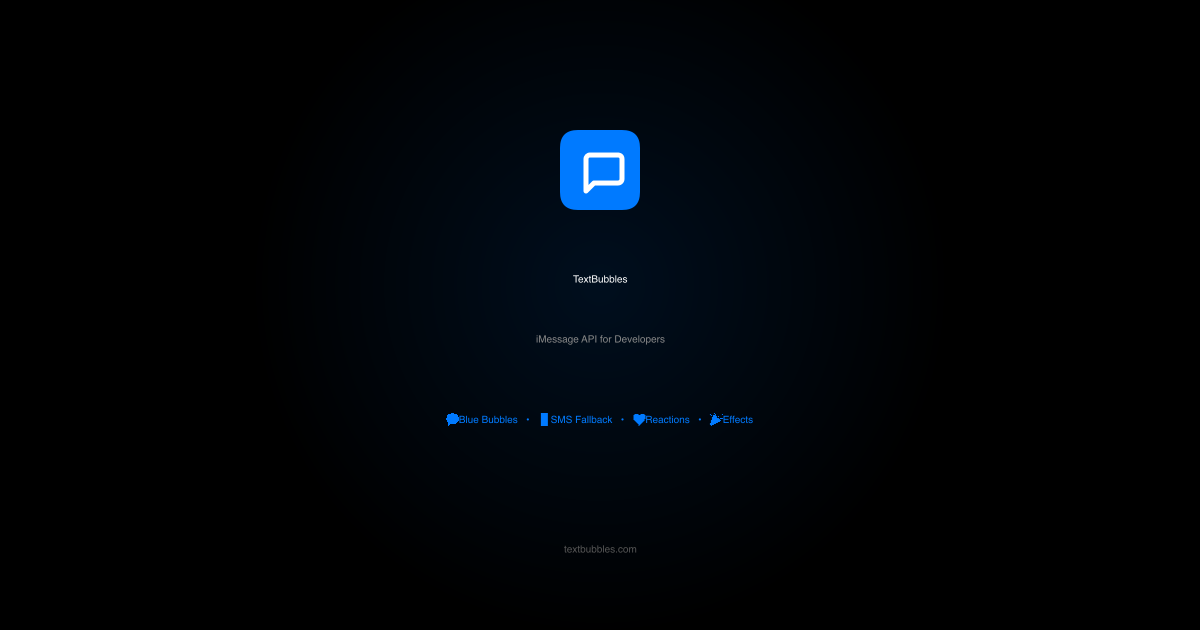
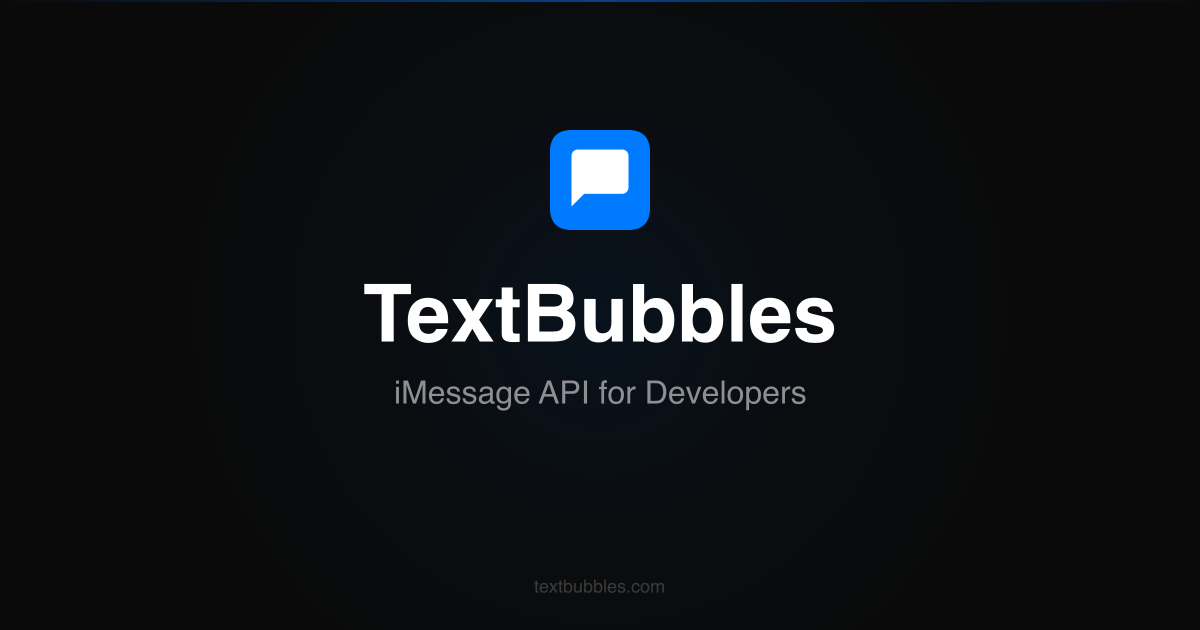
Redesign OG image - bold text, clean layout, professional look

diff --git a/scripts/generate-og.js b/scripts/generate-og.js
@@ -2,31 +2,46 @@ const { createCanvas } = require('canvas');
 const fs = require('fs');
 const path = require('path');
 
-// Dimensions for OG image
 const WIDTH = 1200;
 const HEIGHT = 630;
 
 const canvas = createCanvas(WIDTH, HEIGHT);
 const ctx = canvas.getContext('2d');
 
-// Background - dark like the site
-ctx.fillStyle = '#000000';
+// === Background ===
+ctx.fillStyle = '#0a0a0a';
 ctx.fillRect(0, 0, WIDTH, HEIGHT);
 
-// Subtle blue radial glow
-const glow = ctx.createRadialGradient(WIDTH/2, HEIGHT/2 - 30, 0, WIDTH/2, HEIGHT/2 - 30, 350);
-glow.addColorStop(0, 'rgba(0, 122, 255, 0.12)');
+// Subtle gradient glow
+const glow = ctx.createRadialGradient(WIDTH / 2, HEIGHT / 2, 0, WIDTH / 2, HEIGHT / 2, 450);
+glow.addColorStop(0, 'rgba(0, 122, 255, 0.08)');
+glow.addColorStop(0.5, 'rgba(0, 122, 255, 0.02)');
 glow.addColorStop(1, 'rgba(0, 122, 255, 0)');
 ctx.fillStyle = glow;
 ctx.fillRect(0, 0, WIDTH, HEIGHT);
 
-// Logo - blue rounded square with chat bubble
-const logoSize = 80;
-const logoX = (WIDTH - logoSize) / 2;
-const logoY = 130;
-const logoRadius = 18;
+// Top accent line
+const borderGrad = ctx.createLinearGradient(0, 0, WIDTH, 0);
+borderGrad.addColorStop(0, 'rgba(0, 122, 255, 0)');
+borderGrad.addColorStop(0.3, 'rgba(0, 122, 255, 0.3)');
+borderGrad.addColorStop(0.5, 'rgba(0, 122, 255, 0.5)');
+borderGrad.addColorStop(0.7, 'rgba(0, 122, 255, 0.3)');
+borderGrad.addColorStop(1, 'rgba(0, 122, 255, 0)');
+ctx.fillStyle = borderGrad;
+ctx.fillRect(0, 0, WIDTH, 2);
 
-// Draw rounded rectangle for logo background
+// === Stacked layout: Logo on top, Title below, Tagline below that ===
+// This gives each element room to breathe and be large
+
+// --- Logo: Blue rounded square with chat bubble ---
+const logoSize = 100;
+const logoRadius = 22;
+const logoCenterX = WIDTH / 2;
+const logoTopY = 130;
+const logoX = logoCenterX - logoSize / 2;
+const logoY = logoTopY;
+
+// Rounded rectangle
 ctx.beginPath();
 ctx.moveTo(logoX + logoRadius, logoY);
 ctx.lineTo(logoX + logoSize - logoRadius, logoY);
@@ -41,58 +56,53 @@ ctx.closePath();
 ctx.fillStyle = '#007AFF';
 ctx.fill();
 
-// Chat bubble icon - scaled and centered in logo
-const iconScale = 2.0;
-const iconOffsetX = logoX + (logoSize - 18 * iconScale) / 2 - 2;
-const iconOffsetY = logoY + (logoSize - 18 * iconScale) / 2 - 3;
+// Chat bubble - filled white
+const iconViewBox = 24;
+const iconPadding = 24;
+const iconDrawSize = logoSize - iconPadding;
+const iconScaleFactor = iconDrawSize / iconViewBox;
+const iconXStart = logoX + iconPadding / 2;
+const iconYStart = logoY + iconPadding / 2 - 2;
 
 ctx.save();
-ctx.translate(iconOffsetX, iconOffsetY);
-ctx.scale(iconScale, iconScale);
+ctx.translate(iconXStart, iconYStart);
+ctx.scale(iconScaleFactor, iconScaleFactor);
 
-ctx.strokeStyle = 'white';
-ctx.lineWidth = 2.5;
-ctx.lineCap = 'round';
-ctx.lineJoin = 'round';
-
-// Chat bubble path: M21 15a2 2 0 0 1-2 2H7l-4 4V5a2 2 0 0 1 2-2h14a2 2 0 0 1 2 2z
+ctx.fillStyle = 'white';
 ctx.beginPath();
-ctx.moveTo(21, 15);
-ctx.bezierCurveTo(21, 16.1, 20.1, 17, 19, 17);
+ctx.moveTo(5, 3);
+ctx.lineTo(19, 3);
+ctx.bezierCurveTo(20.1046, 3, 21, 3.8954, 21, 5);
+ctx.lineTo(21, 15);
+ctx.bezierCurveTo(21, 16.1046, 20.1046, 17, 19, 17);
 ctx.lineTo(7, 17);
 ctx.lineTo(3, 21);
 ctx.lineTo(3, 5);
-ctx.bezierCurveTo(3, 3.9, 3.9, 3, 5, 3);
-ctx.lineTo(19, 3);
-ctx.bezierCurveTo(19, 3, 21, 3, 21, 5);
-ctx.lineTo(21, 15);
-ctx.stroke();
-
+ctx.bezierCurveTo(3, 3.8954, 3.8954, 3, 5, 3);
+ctx.closePath();
+ctx.fill();
 ctx.restore();
 
-// TextBubbles text - centered
-ctx.font = 'bold 60px -apple-system, BlinkMacSystemFont, SF Pro Display, Segoe UI, Roboto, sans-serif';
-ctx.fillStyle = 'white';
+// --- Title: Large, bold, white ---
+ctx.font = 'bold 80px Helvetica, Arial, sans-serif';
+ctx.fillStyle = '#ffffff';
 ctx.textAlign = 'center';
 ctx.textBaseline = 'middle';
-ctx.fillText('TextBubbles', WIDTH / 2, 280);
+ctx.fillText('TextBubbles', WIDTH / 2, 320);
 
-// Tagline - centered
-ctx.font = '28px -apple-system, BlinkMacSystemFont, SF Pro Display, Segoe UI, Roboto, sans-serif';
-ctx.fillStyle = '#888888';
-ctx.fillText('iMessage API for Developers', WIDTH / 2, 340);
+// --- Tagline ---
+ctx.font = '32px Helvetica, Arial, sans-serif';
+ctx.fillStyle = '#8e8e93';
+ctx.textAlign = 'center';
+ctx.fillText('iMessage API for Developers', WIDTH / 2, 395);
 
-// Feature pills - centered
-ctx.font = '18px -apple-system, BlinkMacSystemFont, SF Pro Display, Segoe UI, Roboto, sans-serif';
-ctx.fillStyle = '#007AFF';
-ctx.fillText('💬 Blue Bubbles   •   📱 SMS Fallback   •   ❤ Reactions   •   🎉 Effects', WIDTH / 2, 420);
+// --- Domain ---
+ctx.font = '18px Helvetica, Arial, sans-serif';
+ctx.fillStyle = '#3a3a3a';
+ctx.textAlign = 'center';
+ctx.fillText('textbubbles.com', WIDTH / 2, HEIGHT - 42);
 
-// URL at bottom - centered
-ctx.font = '20px -apple-system, BlinkMacSystemFont, SF Pro Display, Segoe UI, Roboto, sans-serif';
-ctx.fillStyle = '#555555';
-ctx.fillText('textbubbles.com', WIDTH / 2, 550);
-
-// Save to file
+// === Save ===
 const buffer = canvas.toBuffer('image/png');
 const outputPath = path.join(__dirname, '../public/og-image.png');
 fs.writeFileSync(outputPath, buffer);
